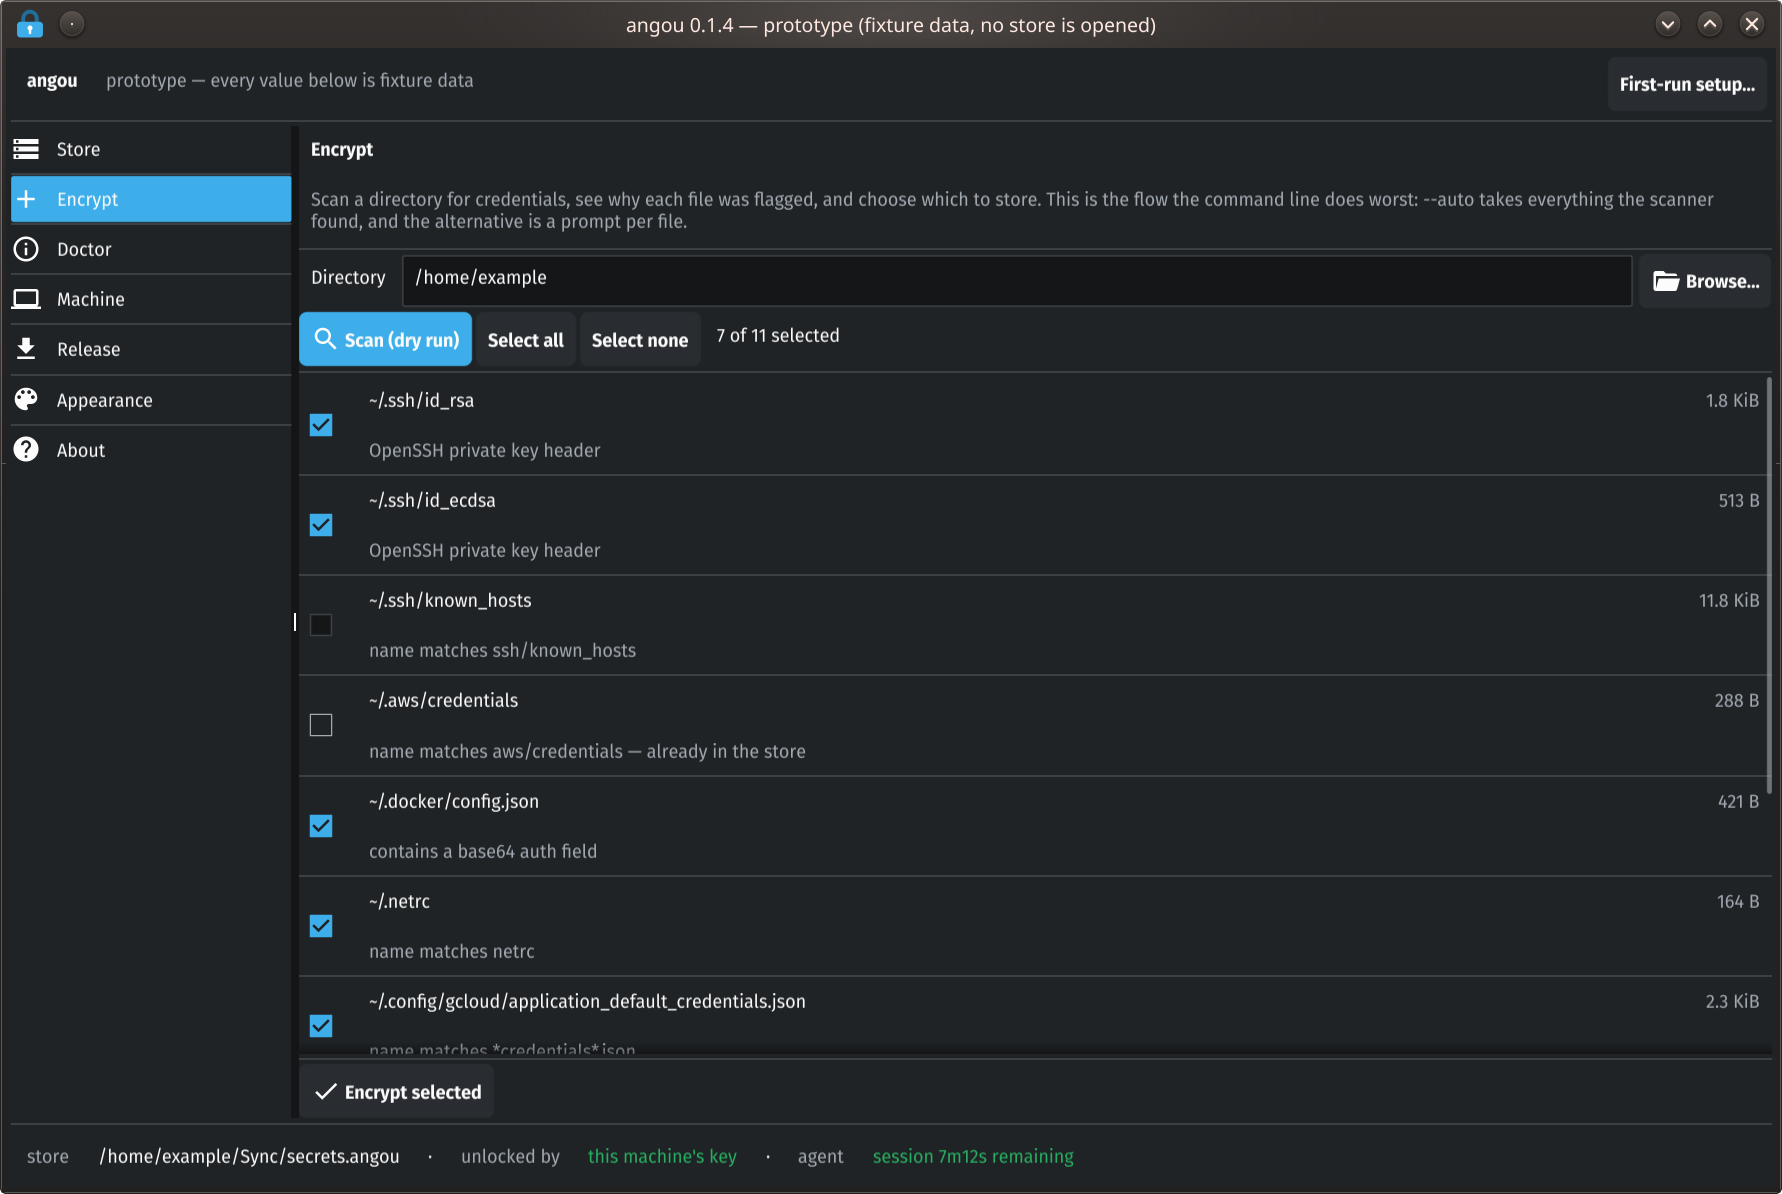
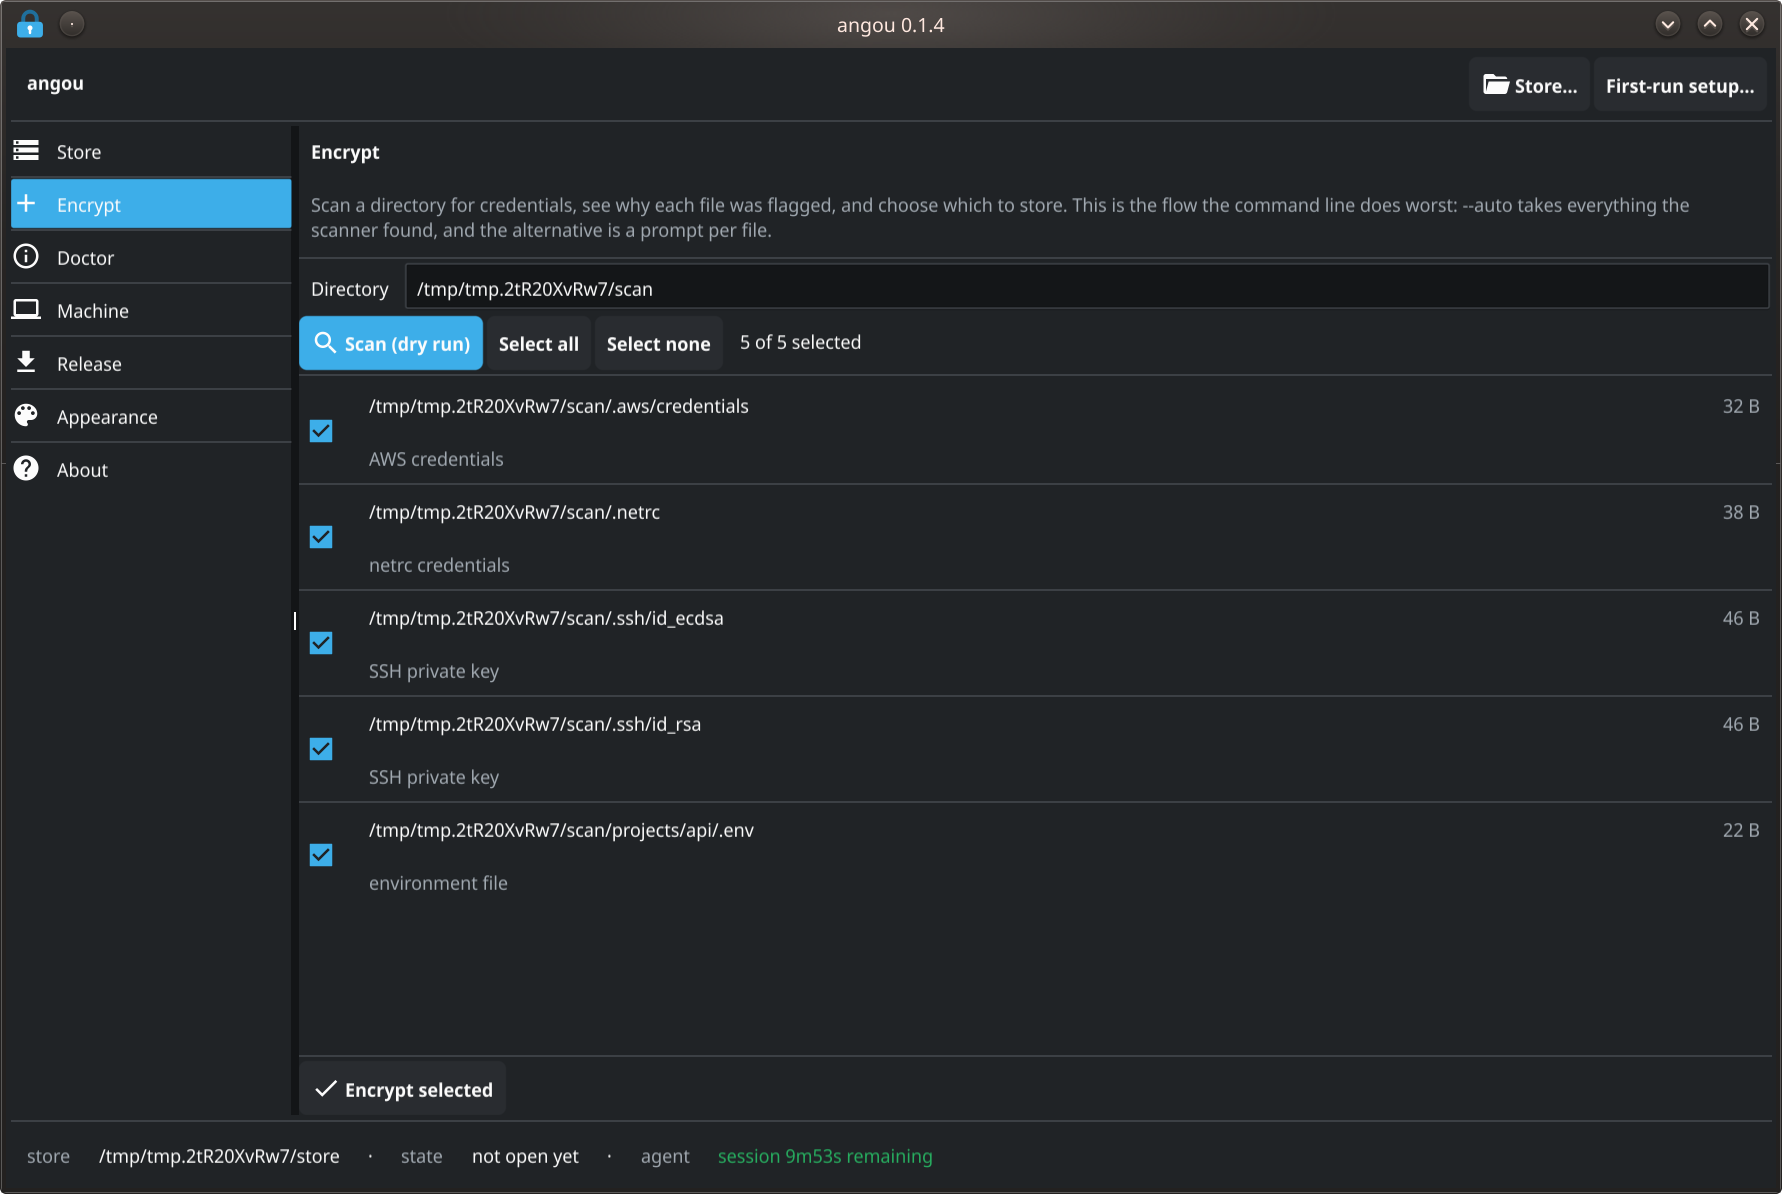
feat(gui): finish pass 3 — captures, first run, and the R7 tests
Spec 002 is complete. The remaining pass-3 criteria:

tools/screenshot.sh now builds its own throwaway store to photograph, seeds it
with obviously invented content, and opens it with an agent. It previously
launched the GUI with no isolation, so it inherited whatever store the developer
was using -- and a store's listing is a list of where that person keeps their
credentials, published into a README. An agent rather than bootstrap, because
bootstrapping writes into the developer's real wallet, which the project's
testing rules forbid; the agent's socket is derived from the store path and
cannot collide with one in use.

XDG_RUNTIME_DIR is deliberately not redirected with the rest. That is where the
Wayland display socket lives, and pointing it at a temporary directory leaves
the window unable to reach the compositor at all -- which presents as the window
failing to start, and cost a debugging round to work out.

angou-gui takes --scan for the same reason it takes --section: the Encrypt
section is a list of what a scan found, and photographing it with nothing found
shows nothing worth showing.

The captures found a bug of their own. The status bar read "unlocked by an agent
session" beside "agent: no session", because the agent state was only fetched by
the Machine section while the status bar reports it from everywhere. It is
fetched at startup and on every invalidation now.

R5.10 is implemented rather than merely reachable: with no store configured the
[…]

diff --git a/internal/gui/state.go b/internal/gui/state.go
@@ -169,6 +169,11 @@ func (u *ui) invalidate() {
 	u.entriesOK = false
 	u.doctorOK = false
 	u.agentOK = false
+	// The agent state is fetched here rather than left to a section, because
+	// the status bar reports it from every section. Left to the Machine section
+	// to load, the bar said "no session" everywhere else — next to "unlocked by
+	// an agent session", which is the same bar contradicting itself.
+	u.loadAgent()
 	u.rebuild()
 }
 
@@ -441,5 +446,51 @@ func (u *ui) createStore(dir string, generate, bootstrap bool) {
 		}
 		fyne.Do(func() { u.setStoreDir(dir) })
 		u.ok("Created the store at " + dir + " and set this machine up.")
+	}()
+}
+
+// startScan walks a directory for credentials and fills the Encrypt list.
+//
+// Separate from the button that usually starts it so a capture can drive it
+// too: the Encrypt section is a list of what a scan found, and photographing it
+// with nothing found shows nothing worth showing.
+func (u *ui) startScan(root string) {
+	u.scanning = true
+	u.refresh()
+	go func() {
+		done := u.busy("Scanning for credentials…")
+		defer func() {
+			done()
+			fyne.Do(func() {
+				u.scanning = false
+				u.refresh()
+			})
+		}()
+
+		found, err := core.Scan(root)
+		if err != nil {
+			u.report("Scan", err)
+			return
+		}
+		out := make([]ScanCandidate, 0, len(found))
+		for _, c := range found {
+			sc := ScanCandidate{Path: c.Path, Reason: c.Reason, Size: c.Size, Selected: true}
+			if _, err := core.StoredAs(c.Path); err != nil {
+				// A file the store cannot name is shown with the reason rather
+				// than silently dropped, and cannot be selected.
+				sc.Reason = c.Reason + " — cannot be stored: " + err.Error()
+				sc.Selected, sc.Stored = false, true
+			}
+			out = append(out, sc)
+		}
+		fyne.Do(func() {
+			u.candidates = out
+			if len(out) == 0 {
+				u.flash("Nothing under "+root+" looked like a credential. That is not an "+
+					"assurance: the scan knows the usual names and places, not every way a "+
+					"secret can be written down.", StatusInfo)
+			}
+			u.refresh()
+		})
 	}()
 }

diff --git a/tests/e2e/guisecret_test.go b/tests/e2e/guisecret_test.go
@@ -1,0 +1,60 @@
+//go:build e2e
+
+package e2e
+
+import (
+	"go/ast"
+	"go/parser"
+	"go/token"
+	"path/filepath"
+	"strings"
+	"testing"
+
+	"github.com/stretchr/testify/require"
+)
+
+// Spec 002 R7.2 forbids a passphrase living in a widget, a struct field, or a
+// closure past the operation that needed it. Extending a session is the agent's
+// job, with a bounded lifetime, not something a window does quietly.
+//
+// A test cannot observe "no secret is retained" by running the window, so this
+// reads the source instead: it fails if the GUI's types grow a field that looks
+// like somewhere to keep one. That is a blunt instrument and it is meant to be —
+// it does not prove the rule holds, it makes the most likely way of breaking it
+// impossible to do without noticing.
+//
+// The zeroing itself is covered by unit tests beside the code, in
+// internal/gui/secret_test.go.
+func TestGUIKeepsNoSecretFields(t *testing.T) {
+	fset := token.NewFileSet()
+	pkgs, err := parser.ParseDir(fset, filepath.Join("..", "..", "internal", "gui"), nil, 0)
+	require.NoError(t, err)
+
+	// Names that would be somewhere to keep a secret. "secret" as a local
+	// variable is fine and expected — this only looks at struct fields.
+	suspect := []string{"passphrase", "secret", "password", "recovery", "unlock"}
+
+	for _, pkg := range pkgs {
+		for path, file := range pkg.Files {
+			ast.Inspect(file, func(n ast.Node) bool {
+				st, ok := n.(*ast.StructType)
+				if !ok || st.Fields == nil {
+					return true
+				}
+				for _, f := range st.Fields.List {
+					for _, name := range f.Names {
+						lower := strings.ToLower(name.Name)
+						for _, bad := range suspect {
+							require.NotContainsf(t, lower, bad,
+								"%s declares a struct field %q.\nR7.2 forbids the GUI keeping a "+
+									"passphrase past the operation that needed it. If this field "+
+									"holds no secret, rename it; if it does, it must not exist.",
+								filepath.Base(path), name.Name)
+						}
+					}
+				}
+				return true
+			})
+		}
+	}
+}

diff --git a/internal/gui/views.go b/internal/gui/views.go
@@ -346,46 +346,8 @@ func (u *ui) buildEncrypt() fyne.CanvasObject {
 	// The dry run is the default and costs nothing. Encrypting is the second,
 	// explicit step (R5.4).
 	scan := widget.NewButtonWithIcon("Scan (dry run)", theme.SearchIcon(), func() {
-		root := dir.Text
-		u.scanRoot = root
-		u.scanning = true
-		u.refresh()
-		go func() {
-			done := u.busy("Scanning for credentials…")
-			defer func() {
-				done()
-				fyne.Do(func() {
-					u.scanning = false
-					u.refresh()
-				})
-			}()
-
-			found, err := core.Scan(root)
-			if err != nil {
-				u.report("Scan", err)
-				return
-			}
-			out := make([]ScanCandidate, 0, len(found))
-			for _, c := range found {
-				sc := ScanCandidate{Path: c.Path, Reason: c.Reason, Size: c.Size, Selected: true}
-				if _, err := core.StoredAs(c.Path); err != nil {
-					// A file the store cannot name is shown with the reason
-					// rather than silently dropped, and cannot be selected.
-					sc.Reason = c.Reason + " — cannot be stored: " + err.Error()
-					sc.Selected, sc.Stored = false, true
-				}
-				out = append(out, sc)
-			}
-			fyne.Do(func() {
-				u.candidates = out
-				if len(out) == 0 {
-					u.flash("Nothing under "+root+" looked like a credential. That is not an "+
-						"assurance: the scan knows the usual names and places, not every way a "+
-						"secret can be written down.", StatusInfo)
-				}
-				u.refresh()
-			})
-		}()
+		u.scanRoot = dir.Text
+		u.startScan(dir.Text)
 	})
 	scan.Importance = widget.HighImportance
 	if u.scanning {

diff --git a/internal/gui/secret_test.go b/internal/gui/secret_test.go
@@ -1,0 +1,39 @@
+package gui
+
+import (
+	"bytes"
+	"testing"
+
+	"github.com/stretchr/testify/require"
+)
+
+// Spec 002 R7.2: no passphrase outlives the operation that needed it.
+//
+// These are unit tests rather than interaction tests because what they check is
+// a property of the code, not of the window: that the buffer handed to core is
+// wiped, and that nothing in this package keeps a field to put one in. Neither
+// needs a display server, so they run under `make test` on a machine with none.
+
+func TestZeroWipesTheBuffer(t *testing.T) {
+	secret := []byte("not a real passphrase, just bytes")
+	zero(secret)
+	require.Equal(t, make([]byte, len(secret)), secret,
+		"the buffer handed to core must be wiped, not merely dropped")
+}
+
+func TestZeroHandlesTheEmptyCase(t *testing.T) {
+	require.NotPanics(t, func() { zero(nil) })
+	require.NotPanics(t, func() { zero([]byte{}) })
+}
+
+// TestZeroLeavesNoTrailingPlaintext is the case that matters for a cancelled
+// dialog: a short answer wiped over a longer earlier one must not leave the tail
+// of the earlier one readable.
+func TestZeroLeavesNoTrailingPlaintext(t *testing.T) {
+	buf := []byte("aaaaaaaaaaaaaaaaaaaaaaaaaaaaaaaa")
+	zero(buf)
+	copy(buf, []byte("bb"))
+	zero(buf)
+	require.False(t, bytes.Contains(buf, []byte("a")), "old bytes survived the wipe")
+	require.False(t, bytes.Contains(buf, []byte("b")), "new bytes survived the wipe")
+}

diff --git a/internal/gui/app.go b/internal/gui/app.go
@@ -137,6 +137,7 @@ type Options struct {
 	Version string
 	Section string // navigation entry to open on; empty means the first
 	Scheme  string // color scheme to force; empty means the saved one
+	Scan    string // directory to scan on startup; empty scans nothing
 }
 
 // Run opens the window and blocks until it is closed.
@@ -221,6 +222,21 @@ func Run(o Options) {
 
 	u.win.Resize(fyne.NewSize(1180, 760))
 	u.nav.Select(sectionIndex(secs, o.Section))
+	u.loadAgent() // the status bar names it, so it is not the Machine section's to fetch
+
+	// R5.10: with no store configured, open on setup rather than on an empty
+	// table full of errors about a directory that was never chosen. Deferred
+	// until the window is up, because a dialog has nowhere to appear before
+	// then.
+	if u.storeDir() == "" {
+		go func() { fyne.Do(u.firstRun) }()
+	}
+	if o.Scan != "" {
+		// For captures: the Encrypt section is a list of what a scan found, and
+		// a screenshot of it with nothing found shows nothing worth showing.
+		u.scanRoot = o.Scan
+		u.startScan(o.Scan)
+	}
 	u.win.SetMaster()
 	u.win.ShowAndRun()
 }

diff --git a/cmd/angou-gui/main.go b/cmd/angou-gui/main.go
@@ -25,6 +25,8 @@ func main() {
 		"open on this section: "+strings.Join(gui.SectionNames(), ", "))
 	scheme := flag.String("scheme", "",
 		"use this colour scheme for this run without saving it: "+strings.Join(gui.SchemeNames(), ", "))
+	scan := flag.String("scan", "",
+		"scan this directory on startup, for documentation captures")
 	version := flag.Bool("version", false, "print the version and exit")
 	flag.Parse()
 
@@ -33,5 +35,5 @@ func main() {
 		os.Exit(0)
 	}
 
-	gui.Run(gui.Options{Version: buildinfo.Version, Section: *section, Scheme: *scheme})
+	gui.Run(gui.Options{Version: buildinfo.Version, Section: *section, Scheme: *scheme, Scan: *scan})
 }

diff --git a/README.md b/README.md
@@ -594,13 +594,12 @@ being killed part-way through.
 
 ## Usage (GUI)
 
-> **Status**: the GUI is under development and is not part of a release yet. What ships
-> today is the prototype — every screen described below is present and navigable, but
-> the operations behind them are not wired up, and it reports as much rather than
-> appearing to act. The CLI is complete and is what this version is for.
+> **Status**: the GUI is not part of a release yet. Every operation is wired to the same
+> code the CLI runs, and a parity test fails the build if either front end grows an
+> operation the other lacks — but it has had far less use than the CLI, and the CLI is
+> what this version is for.
 
-`angou-gui` is a desktop front end over the same store. It is built to do everything
-the CLI does — the two are kept in step deliberately, and neither is allowed a
+`angou-gui` is a desktop front end over the same store. It does everything the CLI does — the two are kept in step deliberately, and neither is allowed a
 capability the other lacks. It is a separate program from the CLI and is never needed
 to set a machine up or to recover one.
 
@@ -631,16 +630,19 @@ One caveat specific to the GUI: text typed into a field is held in a Go string, 
 cannot be overwritten afterwards. The CLI's terminal read is better in this respect.
 Neither is a guarantee — see **Safety** below.
 
-![The Store section: a sortable table of what the store holds, sorted by path — aws/credentials, db/prod.pgpass, gnupg/secring.gpg, kube/config, notes/recovery-plan.md, ssh/id_ed25519 and its .pub, and vpn/work.ovpn — with size, encoding (armor or binary), age, and the origin each was taken from, one showing "none recorded". A toolbar above offers Encrypt file, Scan directory, Reindex, Prune and Clone; the Decrypt, Extract, Rename and Remove buttons below are greyed out until a row is selected.](assets/screenshot-store.png)
+![The Store section: a sortable table of four stored files — demo/credentials, demo/id_ed25519, demo/prod.env and demo/work.ovpn — each with its size, POSIX mode, age, and the path it was encrypted from. A toolbar offers Encrypt file, Scan directory, Refresh, Reindex, Prune and Clone; the Decrypt, Extract, Rename and Remove buttons along the bottom are greyed out until a row is selected. The status bar reads: store, the directory; unlocked by an agent session; agent, session 9m58s remaining.](assets/screenshot-store.png)
 
-![The Encrypt section: a directory scan of /home/example listing eleven candidates, each with the reason it was flagged — "OpenSSH private key header" for id_rsa and id_ecdsa, "contains a base64 auth field" for .docker/config.json, "name matches netrc", "name matches *credentials*.json". Seven of eleven are ticked; ~/.ssh/known_hosts is left unticked, and ~/.aws/credentials is unticked and disabled with the note "already in the store". Scan is a dry run; Encrypt selected sits apart at the bottom.](assets/screenshot-encrypt.png)
+![The Encrypt section: a scan of a directory listing five candidates, each with the reason it was flagged — "AWS credentials" for .aws/credentials, "netrc credentials" for .netrc, "SSH private key" for both .ssh/id_ecdsa and .ssh/id_rsa, and "environment file" for projects/api/.env. All five are ticked, and the count reads "5 of 5 selected". A .env.example file in the same tree was not flagged. Scan is a dry run; Encrypt selected sits apart at the bottom.](assets/screenshot-encrypt.png)
 
-![The Doctor section: findings grouped by subject with a status marker on each row. Store shows the directory, format ANGOU1, eight blobs, and a green tick for an index consistent with the blobs. This machine shows green ticks for a present local key, the KWallet backend, its keyring entry, and a running agent, with the note "This machine opens the store without the recovery passphrase." A superseded-key assertion field sits below the report.](assets/screenshot-doctor.png)
+![The Doctor section: findings grouped by subject with a status marker on each row. Store shows the directory and a green tick for the store being present. Key bundle shows argon2id m=64 MiB t=24 p=4, with green ticks for parameters meeting the pinned floor and memory being sufficient. This machine shows an orange warning — "local key: absent — this machine asks for the recovery passphrase" — followed by "to change that: run `angou bootstrap`". Keyring is reachable, with its entry not applicable until the machine is bootstrapped. A superseded-key assertion field sits below the report.](assets/screenshot-doctor.png)
 
-![The Machine section in three parts. Routine: set this machine up, change the machine password, change the recovery passphrase. Session cache: the agent, marked as unnecessary on this machine and there for machines with no keyring, showing a running session with 7m12s remaining and its socket path. Irreversible, with buttons in red: forget this machine, and rotate the store identity — each stating what it costs, including that forgetting loses access if the recovery passphrase is gone.](assets/screenshot-machine.png)
+![The Machine section in three parts. Routine: set this machine up, change the machine password, change the recovery passphrase. Session cache: the agent, described as unnecessary on a machine that already holds a local key and there for machines with no keyring, with its state and socket path. Irreversible, with buttons in red: forget this machine, and rotate the store identity — each stating what it costs, including that forgetting loses access if the recovery passphrase is gone.](assets/screenshot-machine.png)
 
 The screenshots are captured by `tools/screenshot.sh --all`, which drives the window
-itself rather than relying on anyone clicking through it.
+itself rather than relying on anyone clicking through it. It builds its own throwaway
+store to photograph, with obviously invented contents, and never opens the one you use:
+a store's listing is a list of where you keep your credentials, and these images are
+published.
 
 ## Project layout
 

diff --git a/specs/002-desktop-gui.md b/specs/002-desktop-gui.md
@@ -1,8 +1,8 @@
 # 002 — angou: desktop GUI
 
-## Status: INCOMPLETE
+## Status: COMPLETE
 
-Implementation proceeds in passes.
+Implementation proceeded in three passes.
 
 - **Pass 1** picked the toolkit, fixed the architecture that keeps the two front ends in
   sync, and delivered a navigable prototype driven by fixture data so the look and feel
@@ -29,8 +29,14 @@ Implementation proceeds in passes.
   The claim that behaviour is unchanged is checked by `tools/regress.sh`, which diffs the
   binary against a baseline commit, not only by the suite. That distinction was earned:
   the first slice reordered two `--verbose` lines and every test stayed green.
-- **Pass 3 (next)** wires the GUI to the core, command by command, and lands the parity
-  test.
+- **Pass 3** wired the GUI to the core and landed the parity test. Complete.
+
+  Several requirements were added during the pass, all of them found by using the window
+  rather than by planning it: the store picker of R5A.6, the progress indicator of R3.4.1
+  and its placement in R3.4.2, and the reload rule of R5.3.1. Two of the bugs behind them
+  were caused by earlier fixes in the same pass — the flag that stopped an empty store
+  reloading forever also stopped it reloading at all — which is the argument for the
+  parity test and the regression script rather than for careful review.
 
 ---
 
@@ -410,15 +416,15 @@ server. A GUI test that requires one is skipped there, not failed.
 
 ### Pass 3 — wiring
 
-- [ ] Every operation of R4.1 is wired and works against a real store.
-- [ ] The parity test of R4.3 exists, passes, and fails when a command is added without
+- [x] Every operation of R4.1 is wired and works against a real store.
+- [x] The parity test of R4.3 exists, passes, and fails when a command is added without
       a GUI action.
-- [ ] Destructive confirmations of R6 are in place for every operation listed there.
-- [ ] Passphrase handling meets R7; the buffer-zeroing path is covered by a test.
-- [ ] `README.md` documents the GUI, its runtime dependencies, and the R7.3 limitation.
-- [ ] `install.sh` and `uninstall.sh` handle the GUI and its desktop entry, and are
+- [x] Destructive confirmations of R6 are in place for every operation listed there.
+- [x] Passphrase handling meets R7; the buffer-zeroing path is covered by a test.
+- [x] `README.md` documents the GUI, its runtime dependencies, and the R7.3 limitation.
+- [x] `install.sh` and `uninstall.sh` handle the GUI and its desktop entry, and are
       idempotent.
-- [ ] `make test`, `make e2e`, and `make lint` pass.
+- [x] `make test`, `make e2e`, and `make lint` pass.
 
 ---
 
